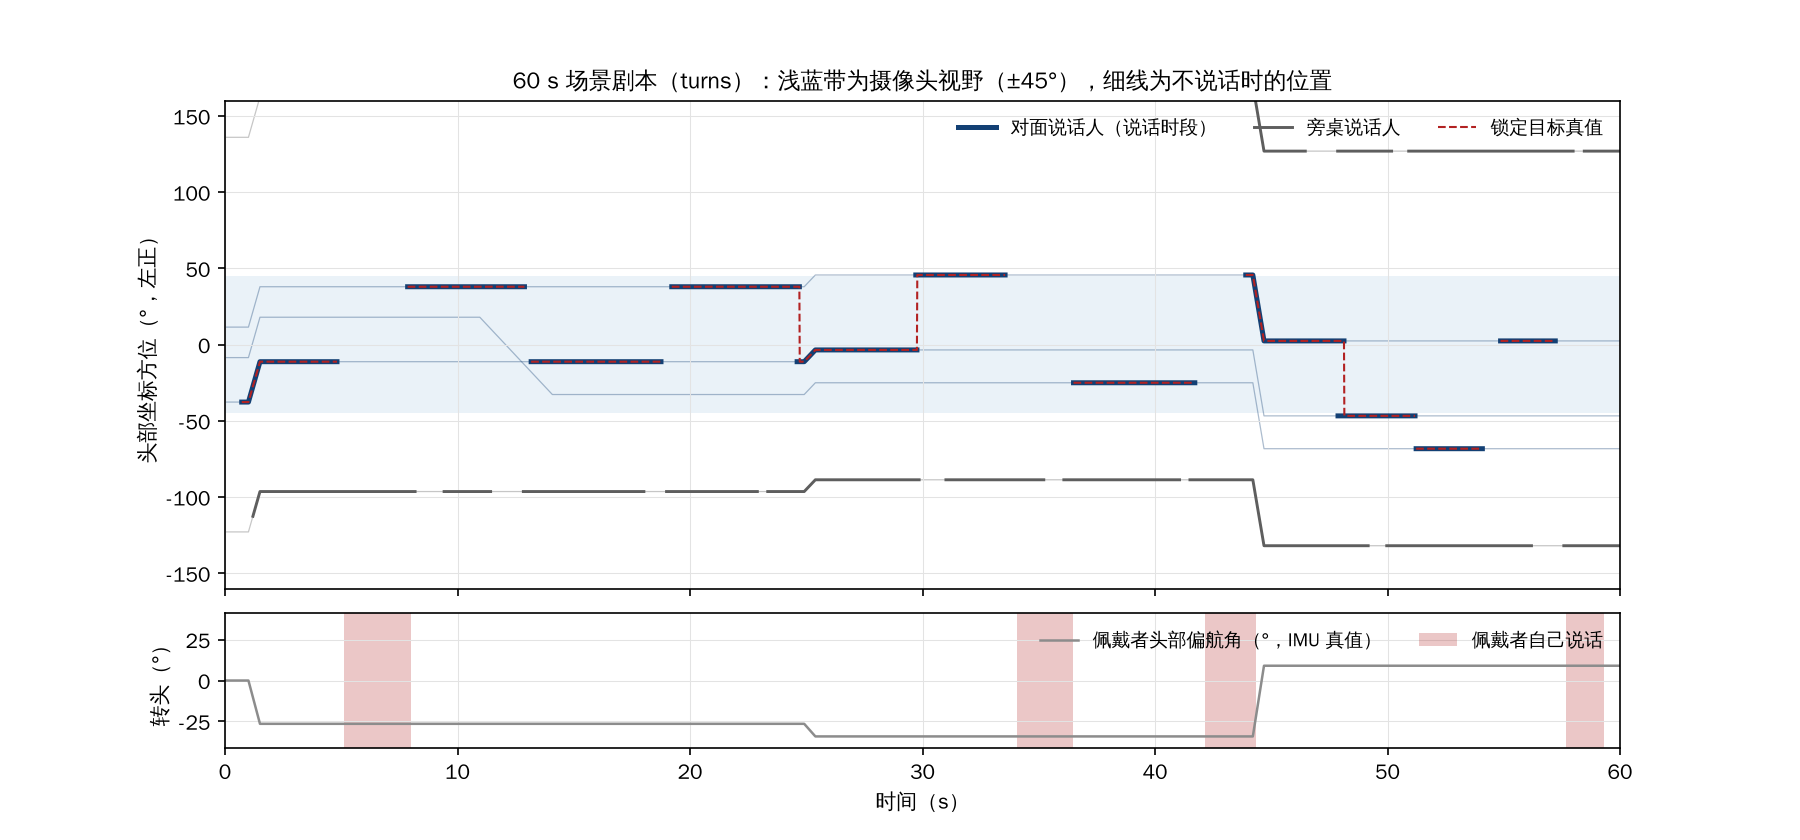
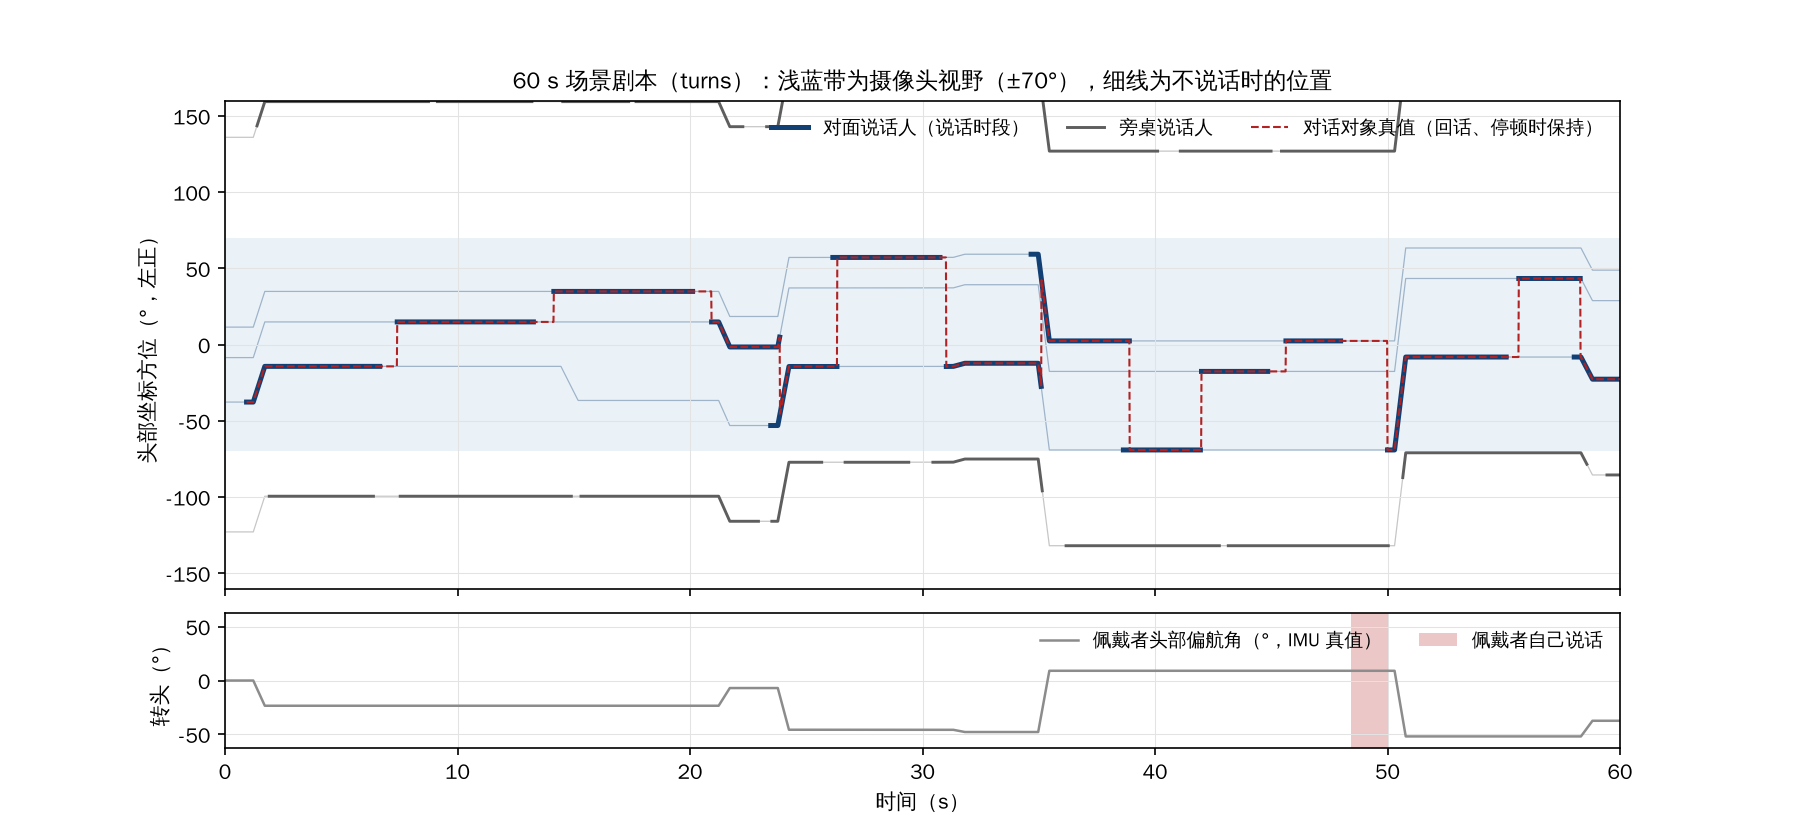
耳机 demo：60 s 场景生成器自查修正（视野统一为 ±70°、旁桌与情况 2 电平按到耳机处的直达声、走动先于转头、补对话对象真值、图中方位跨 ±180° 断线）；测试加电平与真值检查
Claude-Session: https://claude.ai/code/session_01LSfCnvpjtysK1RD5zyXki5

diff --git a/code/earbud_ssl/earbud_ssl/scene60.py b/code/earbud_ssl/earbud_ssl/scene60.py
@@ -42,7 +42,7 @@ DEFAULT = {
     "n_walk": 1,                # 走动的说话人次数
     "walk_speed_dps": (10, 40),
     "walk_dur_s": (2.0, 4.0),
-    "fov_half_deg": 45.0,       # 两只耳机摄像头合起来的水平视野（头部坐标）【设计，待硬件确认】
+    "fov_half_deg": 70.0,       # 摄像头视野（头部坐标 ±70°，与 11 月各仿真的 VIS["fov"] 一致）【设计，待硬件确认】
     "case2_sir_db": 0.0,        # 情况 2：互相说话的两人相对目标的电平（0 = 一样响，-6 = 低 6 dB）
     "rt60": 0.5, "drr_db": 0.0, "snr_db": 10.0,
 }
@@ -55,7 +55,7 @@ class Person:
     dist: float
     az_world: np.ndarray        # (T,) 世界坐标方位（°），0 = 佩戴者起始正前方，左正
     speaking: np.ndarray        # (T,) bool
-    gain_db: float = 0.0        # 相对 1.5 m 处对面说话人的直达声电平
+    gain_db: float = 0.0        # 嗓音大小（dB，相对普通说话）；到耳机处的直达声电平 = gain_db − 20·log10(dist / 1.5 m)
 
 
 @dataclass
@@ -68,6 +68,7 @@ class Scene:
     self_speech: np.ndarray     # (T,) bool
     target: np.ndarray          # (T,) int：正在和佩戴者说话的人的 pid，-1 = 没有
     events: list = field(default_factory=list)
+    partner: np.ndarray = None  # (T,) int：对话对象——最近一个和佩戴者说话的人，佩戴者回话、停顿时保持，直到换人；开场前为 -1
 
     def az_head(self, p):
         """某人在头部坐标里的方位（°，-180–180）。"""
@@ -113,8 +114,24 @@ def make_scene(rng, cfg=None):
     for j in range(cfg["n_side"]):
         sgn = 1 if j % 2 == 0 else -1
         a = sgn * rng.uniform(*cfg["side_az_abs_deg"])
-        persons.append(Person(n + j, "side", rng.uniform(*cfg["side_dist_m"]), np.full(T, a), np.zeros(T, bool),
-                              gain_db=-cfg["side_sir_db"]))
+        d = rng.uniform(*cfg["side_dist_m"])
+        # 旁桌在耳机处比 1.5 m 处的对面说话人低 side_sir_db（直达声），据此反推嗓音大小；混响尾按距离自然变化
+        persons.append(Person(n + j, "side", d, np.full(T, a), np.zeros(T, bool), gain_db=-cfg["side_sir_db"] + 20 * np.log10(d / 1.5)))
+
+    partners_w = [p for p in persons if p.role == "partner"]
+    # 走动：对面某人在一段时间内匀速改变方位
+    for _ in range(cfg["n_walk"]):
+        p = partners_w[rng.integers(len(partners_w))]
+        w = rng.uniform(*cfg["walk_speed_dps"]) * rng.choice([-1, 1])
+        D = rng.uniform(*cfg["walk_dur_s"]); lo = min(5.0, 0.2 * dur)
+        if dur - D - lo <= lo:
+            continue
+        t0 = rng.uniform(lo, dur - D - lo)
+        a, b = _frames(t0), _frames(t0 + D)
+        ramp = np.zeros(T); ramp[a:b] = w * (tt[a:b] - tt[a]); ramp[b:] = w * (tt[b - 1] - tt[a])
+        p.az_world = np.clip(p.az_world + ramp, -60, 60)     # 走动限制在正前方 ±60° 内（仍是"对面"的人）【设计】
+        ev.append({"t": round(t0, 2), "type": "走动", "pid": p.pid, "deg_per_s": round(float(w), 1), "dur": round(D, 2)})
+
 
     yaw = np.zeros(T)
     self_sp = np.zeros(T, bool)
@@ -173,8 +190,8 @@ def make_scene(rng, cfg=None):
             p = others[k % 2]; L = rng.uniform(*cfg["utt_s"])
             _mark(p.speaking, t, t + L, T); ev.append({"t": round(t, 2), "type": "旁人互相说话", "pid": p.pid, "dur": round(L, 2)})
             t += L + rng.uniform(*cfg["gap_s"]); k += 1
-        for p in others:
-            p.gain_db = cfg["case2_sir_db"]
+        for p in others:   # 在耳机处与目标的直达声电平差 = case2_sir_db（"一样响"指到耳机处一样响）
+            p.gain_db = cfg["case2_sir_db"] + 20 * np.log10(p.dist / tgt.dist)
     else:
         raise ValueError(cfg["kind"])
 
@@ -186,21 +203,12 @@ def make_scene(rng, cfg=None):
         while t < dur:
             L = rng.uniform(2.0, 8.0); _mark(p.speaking, t, t + L, T); t += L + rng.uniform(0.3, 1.5)
 
-    # 走动：对面某人在一段时间内匀速改变方位
-    for _ in range(cfg["n_walk"]):
-        p = partners[rng.integers(len(partners))]
-        w = rng.uniform(*cfg["walk_speed_dps"]) * rng.choice([-1, 1])
-        D = rng.uniform(*cfg["walk_dur_s"]); lo = min(5.0, 0.2 * dur)
-        if dur - D - lo <= lo:
-            continue
-        t0 = rng.uniform(lo, dur - D - lo)
-        a, b = _frames(t0), _frames(t0 + D)
-        ramp = np.zeros(T); ramp[a:b] = w * (tt[a:b] - tt[a]); ramp[b:] = w * (tt[b - 1] - tt[a])
-        p.az_world = np.clip(p.az_world + ramp, -80, 80)
-        ev.append({"t": round(t0, 2), "type": "走动", "pid": p.pid, "deg_per_s": round(float(w), 1), "dur": round(D, 2)})
-
     ev.sort(key=lambda e: e["t"])
-    return Scene(cfg, T, tt, persons, yaw, self_sp, target, ev)
+    partner = target.copy()
+    for i in range(1, T):
+        if partner[i] < 0:
+            partner[i] = partner[i - 1]
+    return Scene(cfg, T, tt, persons, yaw, self_sp, target, ev, partner)
 
 
 def _render_track(S, az_head, gain, Htab, H_diff, rng, rt60, drr):
@@ -273,6 +281,9 @@ def summary(scene):
     for p in scene.persons:
         tv |= (scene.target == p.pid) & scene.visible(p)
     d["目标在视野内的占比（有目标时）"] = round(float(tv[tgt_on].mean()), 3) if tgt_on.any() else None
+    d["有对话对象的时间占比"] = round(float((scene.partner >= 0).mean()), 3)
     d["最大转头_deg"] = round(float(np.max(np.abs(scene.yaw))), 1)
+    lv = [p.gain_db - 20 * np.log10(p.dist / 1.5) for p in scene.persons if p.role == "side"]
+    d["旁桌到耳机处直达声电平_dB（设计值）"] = round(float(np.mean(lv)), 2) if lv else None
     d["事件数"] = len(scene.events)
     return d

diff --git a/code/earbud_ssl/scripts/make_scene60.py b/code/earbud_ssl/scripts/make_scene60.py
@@ -42,8 +42,10 @@ def plot(scene, path):
     tt = scene.tt
     fov = scene.cfg["fov_half_deg"]
     ax.axhspan(-fov, fov, color="#EAF2F8", lw=0, zorder=0)
+    def brk(a):   # 方位跨过 ±180° 时断开连线
+        a = np.asarray(a, float).copy(); a[1:][np.abs(np.diff(a)) > 90] = np.nan; return a
     for p in scene.persons:
-        az = scene.az_head(p)
+        az = brk(scene.az_head(p))
         col = "#5E5E5E" if p.role == "side" else NAVY
         ax.plot(tt, az, color=col, lw=0.6, alpha=0.35, zorder=1)
         sp = np.where(p.speaking, az, np.nan)
@@ -51,9 +53,10 @@ def plot(scene, path):
                 label=("对面说话人（说话时段）" if p.role == "partner" else "旁桌说话人") if p.pid in (0, scene.cfg["n_partners"]) else None)
     tgt_az = np.full(scene.T, np.nan)
     for p in scene.persons:
-        m = scene.target == p.pid
+        m = scene.partner == p.pid
         tgt_az[m] = scene.az_head(p)[m]
-    ax.plot(tt, tgt_az, color="#B22222", lw=1.0, ls="--", zorder=3, label="锁定目标真值")
+    tgt_az = brk(tgt_az)
+    ax.plot(tt, tgt_az, color="#B22222", lw=1.0, ls="--", zorder=3, label="对话对象真值（回话、停顿时保持）")
     ax.set_ylim(-160, 160); ax.set_ylabel("头部坐标方位（°，左正）")
     ax.set_title(f"60 s 场景剧本（{scene.cfg['kind']}）：浅蓝带为摄像头视野（±{fov:.0f}°），细线为不说话时的位置", fontsize=11)
     ax.legend(loc="upper right", fontsize=9, ncol=3, frameon=False)

diff --git a/code/earbud_ssl/tests/test_basic.py b/code/earbud_ssl/tests/test_basic.py
@@ -125,9 +125,17 @@ def test_scene60():
             m = sc.target == p.pid
             assert np.all(p.speaking[m]), (kind, p.pid)
         assert sc.yaw.shape == (sc.T,) and len(sc.persons) == 5
+        assert np.all(sc.partner[sc.target >= 0] == sc.target[sc.target >= 0])   # 有人说话时对话对象就是他
+        for p in sc.persons:   # 旁桌到耳机处的直达声比 1.5 m 处对面说话人低 side_sir_db
+            if p.role == "side":
+                assert abs(p.gain_db - 20 * np.log10(p.dist / 1.5) + sc.cfg["side_sir_db"]) < 1e-9
         if kind == "case2":
             tg = set(sc.target[sc.target >= 0].tolist())
             assert len(tg) == 1
+            t0 = sc.persons[next(iter(tg))]
+            for p in sc.persons:   # 情况 2：另外两人到耳机处与目标一样响
+                if p.role == "partner" and p is not t0:
+                    assert abs((p.gain_db - 20 * np.log10(p.dist / 1.5)) - (t0.gain_db - 20 * np.log10(t0.dist / 1.5)) - sc.cfg["case2_sir_db"]) < 1e-9
     mics = earbud_mic_set("2+1")
     ctx = {"Htab": sphere_tf(azimuth_points(np.arange(0, 360, 1.0), 1.5), mics, FREQS),
            "H_diff": sphere_tf(fibonacci_sphere(8, 2.0), mics, FREQS),

diff --git a/02_耳机声源定位/60s场景生成器.md b/02_耳机声源定位/60s场景生成器.md
@@ -7,32 +7,36 @@
 
 11 月的仿真是 1.5 s 片段（开口判决）和 20 s 对话。12 月要在 60 s 连续场景里一次跑通全流程（开口检测、定位、摄像头两档切换、跟踪、锁定输出），所以先做一个场景生成器，分两步：
 
-1. **剧本**（`make_scene`）：每个人在世界坐标里的方位轨迹、每帧谁在说话、佩戴者转头（IMU 偏航角）、佩戴者自己说话、此刻正在和佩戴者说话的人（锁定目标真值）、人脸是否在摄像头视野内。剧本和真值与声学渲染分开，同一剧本可以换头部模型、换阵列重渲染。
+1. **剧本**（`make_scene`）：每个人在世界坐标里的方位轨迹、每帧谁在说话、佩戴者转头（IMU 偏航角）、佩戴者自己说话、人脸是否在摄像头视野内，以及两种真值：
+   - **正在说话的目标**（`target`）：此刻正在和佩戴者说话的人；抢话时上一位说完之前仍算上一位。
+   - **对话对象**（`partner`）：最近一个和佩戴者说话的人，佩戴者回话、停顿时保持，直到换人。评测"锁定是否正确"用这一个——佩戴者回话时系统应继续锁住对方。剧本和真值与声学渲染分开，同一剧本可以换头部模型、换阵列重渲染。
 2. **渲染**（`render`）：按头部模型把剧本渲染成各麦克风的 STFT。直达声逐帧按当时的头部坐标方位取传递函数（1° 一格），所以说话人走动、佩戴者转头时方向会随时间变化；混响尾按扩散场近似；再加扩散噪声。头部模型由一张表传入，**换实测头部传递函数时只换这张表**。
 
 ## 2. 两种场景（对应 mentor 11-23 的两种情况）
 
 | 类型 | 内容 | 对应 |
 |---|---|---|
-| `turns` | 对面 3 人（相邻相隔 20–30°）轮流和佩戴者说话，偶有抢话；佩戴者约三成句后回话；换人时一半概率转头朝向新说话人；1 人走动一段（10–40°/s，2–4 s）；左右旁桌 2 人持续说话（低 6 dB、2.5–4.5 m） | 情况 1 + 换人、走动、转头、自语音 |
-| `case2` | 中间那人一直和佩戴者一问一答；另外两人同时在互相说话（与目标一样响，或低 6 dB）；旁桌同上；不走动、不转头 | 情况 2 |
+| `turns` | 对面 3 人（相邻相隔 20–30°，距离 1–2 m）轮流和佩戴者说话，偶有抢话；佩戴者约三成句后回话；换人时一半概率转头朝向新说话人；1 人走动一段（10–40°/s，2–4 s，限制在正前方 ±60° 内）；左右旁桌 2 人持续说话（2.5–4.5 m，到耳机处的直达声比 1.5 m 处对面说话人低 6 dB） | 情况 1 + 换人、走动、转头、自语音 |
+| `case2` | 中间那人一直和佩戴者一问一答；另外两人同时在互相说话（到耳机处与目标一样响，或低 6 dB，由 `case2_sir_db` 设定）；旁桌同上；不走动、不转头 | 情况 2 |
 
-主要参数【设计】：RT60 0.5 s，直达混响比 0 dB（1.5 m 处，越远越低），扩散噪声 SNR 10 dB（相对 1.5 m 正前方说话人）；佩戴者自己说话比 1.5 m 处说话人高 10 dB，声源放在正前下方约 11.5 cm（嘴的位置，近似）；摄像头视野按两只耳机合起来 ±45°【待确认，硬件】。全部参数见 `scene60.py` 的 `DEFAULT`。
+主要参数【设计】：RT60 0.5 s，直达混响比 0 dB（1.5 m 处，越远越低），扩散噪声 SNR 10 dB（相对 1.5 m 正前方说话人）；佩戴者自己说话比 1.5 m 处说话人高 10 dB，声源放在正前下方约 11.5 cm（嘴的位置，近似）；摄像头视野按头部坐标 ±70°，与 11 月各仿真一致【待确认，硬件】。电平口径：每个人先按"1.5 m 正前方普通说话"归一，再按嗓音大小与距离（直达声按 1/距离衰减，混响尾与距离无关）算到耳机处；旁桌和情况 2 的电平差都指到耳机处的直达声。全部参数见 `scene60.py` 的 `DEFAULT`。
 
 ## 3. 剧本统计（各 40 段，种子 7）【仿真】
 
 | 指标 | `turns`：最小 / 平均 / 最大 | `case2`：最小 / 平均 / 最大 |
 |---|---|---|
-| 有目标（有人在和佩戴者说话）的时间占比 | 59% / 77% / 87% | 51% / 64% / 74% |
+| 有人在和佩戴者说话的时间占比 | 59% / 76% / 87% | 51% / 64% / 74% |
 | 换人次数（每 60 s） | 9 / 12 / 15 | 0（目标固定） |
-| 佩戴者自己说话占比 | 4% / 12% / 28% | 9% / 21% / 32% |
+| 佩戴者自己说话占比 | 4% / 13% / 28% | 9% / 21% / 32% |
 | 对面两人以上同时说话占比 | 0% / 1.2% / 3.3% | 45% / 59% / 68% |
-| 目标在摄像头视野内的占比（有目标时） | 53% / 83% / 100% | 100% |
-| 最大转头 | 12° / 26° / 40° | 0° |
+| 目标在摄像头视野内的占比（有人说话时） | 84% / 98% / 100% | 100% |
+| 最大转头 | 10° / 33° / 60° | 0° |
 
-渲染一段 60 s（2+1 阵列，5 个说话人 + 自语音 + 噪声）约 25 s（单线程）；每个条件 40 段约 17 分钟。
+渲染一段 60 s（2+1 阵列，5 个说话人 + 自语音 + 噪声）约 30 s（单线程）；每个条件 40 段约 20 分钟。
 
-示例剧本的"时间–方位"图：`figures/earbud_scene60_turns.png`、`figures/earbud_scene60_case2.png`（粗线为说话时段，红虚线为锁定目标真值，浅蓝带为摄像头视野，下方为转头角度与佩戴者自己说话的时段）。
+示例剧本的"时间–方位"图：`figures/earbud_scene60_turns.png`、`figures/earbud_scene60_case2.png`（粗线为说话时段，红虚线为对话对象真值，浅蓝带为摄像头视野，下方为转头角度与佩戴者自己说话的时段）。
+
+**11-27 自查后的修正**（第一版的问题）：① 摄像头视野原设 ±45°，与 11 月仿真的 ±70° 不一致，已统一；② 旁桌与情况 2 另外两人的电平原来在"低 6 dB / 一样响"之外又多乘了一次距离衰减（实际低 4–10 dB），已改为到耳机处的直达声电平；③ 走动原在转头之后生成，"转头朝向说话人"用的是走动前的位置，已调整顺序，走动范围收到 ±60°；④ 补"对话对象"真值。单元测试加了电平与真值的检查。
 
 ## 4. 目前的限制
 
